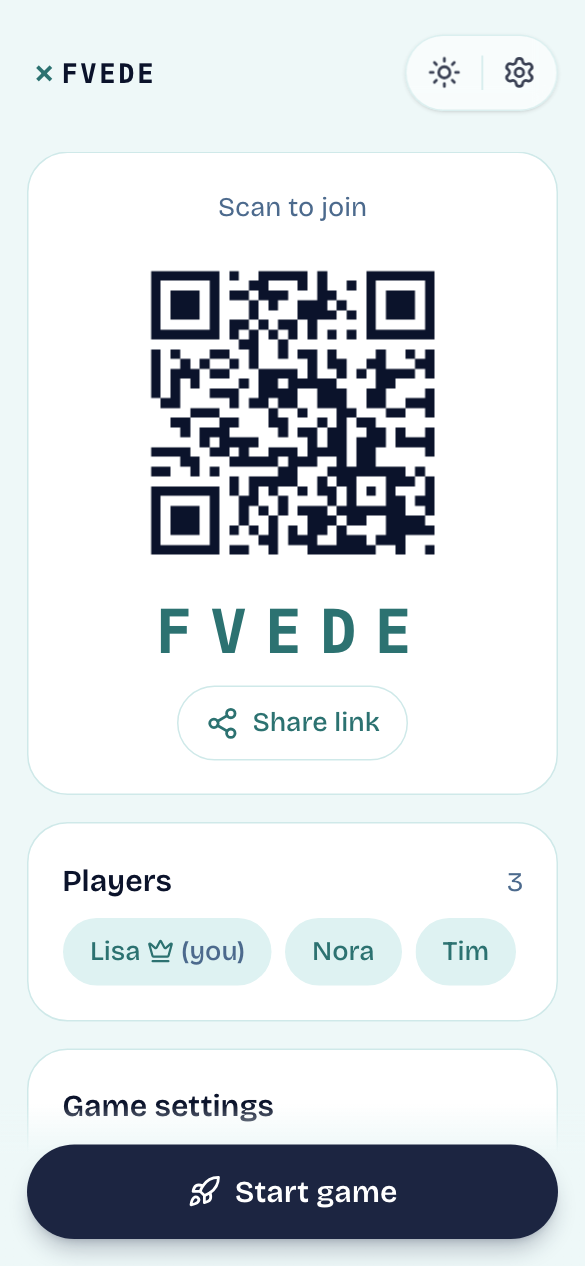
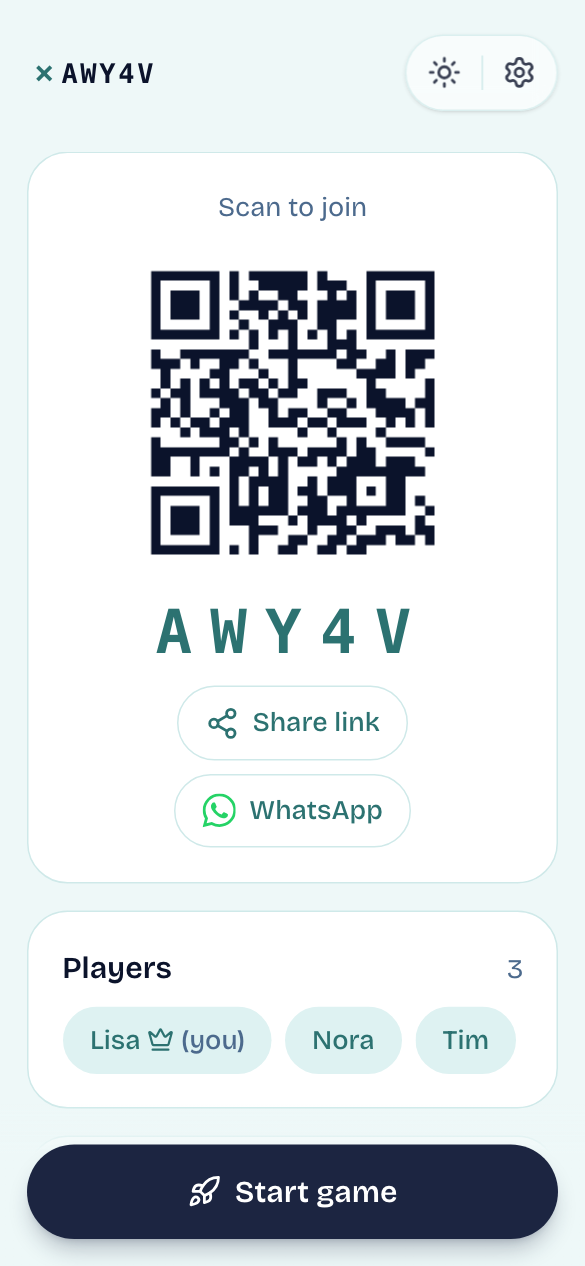
feat: WhatsApp invite; no AI at all for signed-out players
- Lobby: WhatsApp button opens a chat with "Join my Imposter game! Room XXXXX" + link (EN/FR/DE)
- Signed out: own words are checked on the phone (exact duplicates), no AI request and no spinner;
  rooms created signed out have no AI
- e2e: WhatsApp link content; signed-out own words never call the AI endpoints

diff --git a/src/app/r/[code]/page.tsx b/src/app/r/[code]/page.tsx
@@ -292,9 +292,20 @@ export default function Room() {
               <img src={qr} alt={`QR ${code}`} width={220} height={220} className="pop rounded-2xl bg-white p-2" />
             )}
             <p className="font-mono text-4xl font-bold tracking-code text-primary-ink">{code}</p>
-            <button onClick={share} className={`${ghost} border border-line`}>
-              <span className="flex items-center gap-2">{copied ? <Check className="size-5 shrink-0" aria-hidden /> : <Share2 className="size-5 shrink-0" aria-hidden />}{t(copied ? "copied" : "share")}</span>
-            </button>
+            <div className="flex flex-wrap justify-center gap-2">
+              <button onClick={share} className={`${ghost} border border-line`}>
+                <span className="flex items-center gap-2">{copied ? <Check className="size-5 shrink-0" aria-hidden /> : <Share2 className="size-5 shrink-0" aria-hidden />}{t(copied ? "copied" : "share")}</span>
+              </button>
+              {/* straight into a WhatsApp chat with a ready-made invite (wa.me works on phones and desktop) */}
+              <a
+                href={`https://wa.me/?text=${encodeURIComponent(`${f("invite", code)} ${url}`)}`}
+                target="_blank"
+                rel="noopener noreferrer"
+                className={`${ghost} flex items-center gap-2 border border-line`}
+              >
+                <WhatsAppIcon /> {t("whatsapp")}
+              </a>
+            </div>
           </section>
           <section className={card}>
             <div className="mb-2 flex items-baseline justify-between">
@@ -524,5 +535,14 @@ export default function Room() {
 
       {!v && !errMsg && waiting("…")}
     </main>
+  );
+}
+
+// WhatsApp glyph (Simple Icons, CC0); lucide has no brand icons
+function WhatsAppIcon() {
+  return (
+    <svg viewBox="0 0 24 24" className="size-5 shrink-0 fill-whatsapp" aria-hidden>
+      <path d="M17.472 14.382c-.297-.149-1.758-.867-2.03-.967-.273-.099-.471-.148-.67.15-.197.297-.767.966-.94 1.164-.173.199-.347.223-.644.075-.297-.15-1.255-.463-2.39-1.475-.883-.788-1.48-1.761-1.653-2.059-.173-.297-.018-.458.13-.606.134-.133.298-.347.446-.52.149-.174.198-.298.298-.497.099-.198.05-.371-.025-.52-.075-.149-.669-1.612-.916-2.207-.242-.579-.487-.5-.669-.51-.173-.008-.371-.01-.57-.01-.198 0-.52.074-.792.372-.272.297-1.04 1.016-1.04 2.479 0 1.462 1.065 2.875 1.213 3.074.149.198 2.096 3.2 5.077 4.487.709.306 1.262.489 1.694.625.712.227 1.36.195 1.871.118.571-.085 1.758-.719 2.006-1.413.248-.694.248-1.289.173-1.413-.074-.124-.272-.198-.57-.347m-5.421 7.403h-.004a9.87 9.87 0 0 1-5.031-1.378l-.361-.214-3.741.982.998-3.648-.235-.374a9.86 9.86 0 0 1-1.51-5.26c.001-5.45 4.436-9.884 9.888-9.884 2.64 0 5.122 1.03 6.988 2.898a9.825 9.825 0 0 1 2.893 6.994c-.003 5.45-4.437 9.884-9.885 9.884m8.413-18.297A11.815 11.815 0 0 0 12.05 0C5.495 0 .16 5.335.157 11.892c0 2.096.547 4.142 1.588 5.945L.057 24l6.305-1.654a11.882 11.882 0 0 0 5.683 1.448h.005c6.554 0 11.89-5.335 11.893-11.893a11.821 11.821 0 0 0-3.48-8.413Z" />
+    </svg>
   );
 }

diff --git a/src/app/page.tsx b/src/app/page.tsx
@@ -14,6 +14,7 @@ import { TurnGuide } from "@/components/TurnGuide";
 import { GuessForm } from "@/components/GuessForm";
 import { Verdict, type Guess } from "@/components/Verdict";
 import { ExplainWord } from "@/components/ExplainWord";
+import { useMe } from "@/lib/authClient";
 import { JokerHint } from "@/components/Joker";
 import { tally } from "@/lib/vote";
 import { type RoundLog, winners } from "@/lib/stats";
@@ -85,7 +86,8 @@ export default function Home() {
   const [notes, setNotes] = useState<(Note | null)[]>([]);
   const [checking, setChecking] = useState(false);
   const [confirmable, setConfirmable] = useState(""); // corrected draft shown to the player; sending it unchanged = accepted
-  const ai = useAi();
+  const me = useMe();
+  const ai = useAi() && !!me?.user; // AI only for signed-in players (and only when their switch is on)
   const [myName, setMyName] = useState(saved.myName ?? "");
   const [code, setCode] = useState("");
   const [online, setOnline] = useState<"create" | "join">("create");
@@ -195,10 +197,11 @@ export default function Home() {
 
   // words stay in `writing` until everyone is done, so quitting halfway never leaves a partial pool
   const submitWords = async () => {
-    setChecking(true);
     const taken = writing.map((s) => s.word as string);
-    const reviews: Review[] =
-      (await fetch("/api/words/check", {
+    setChecking(ai); // signed out: exact checks right here, no round trip and no spinner
+    const reviews: Review[] = !ai
+      ? exactReview(draft, taken)
+      : (await fetch("/api/words/check", {
         method: "POST",
         body: JSON.stringify({ words: draft, taken, lang: W, ai: ai && JSON.stringify(draft) !== confirmable }),
       })

diff --git a/e2e/auth.spec.ts b/e2e/auth.spec.ts
@@ -67,6 +67,24 @@ test.describe("signed out", () => {
     expect((await page.request.post("/api/words/explain", { data: { word: "Pizza", lang: "en" } })).status()).toBe(401);
   });
 
+  test("own words: checked on the phone, never sent to the AI; duplicates still caught", async ({ page }) => {
+    const aiCalls: string[] = [];
+    page.on("request", (r) => r.url().includes("/api/words/") && aiCalls.push(r.url()));
+    await page.goto("/");
+    await page.getByRole("button", { name: "Remove" }).last().click(); // Lisa, Nora, Tim
+    await page.getByRole("button", { name: "Our own words" }).click();
+    await page.getByRole("button", { name: "−" }).last().click(); // 1 word each
+    await page.getByRole("button", { name: "Start game" }).click();
+    for (const w of ["Bananna", "bananna"]) {
+      await page.getByRole("button", { name: "Tap to write" }).click();
+      await page.getByPlaceholder(/^Word/).fill(w);
+      await page.getByRole("button", { name: "Done" }).click();
+    }
+    // Lisa's "Bananna" was never autocorrected, so Nora's "bananna" is an exact clash: both cancelled
+    await expect(page.getByRole("status").filter({ hasText: "Someone already wrote this" })).toBeVisible();
+    expect(aiCalls).toEqual([]);
+  });
+
   test("every configured provider starts a real OAuth redirect", async ({ page, request, baseURL }) => {
     const { providers } = (await (await request.get("/api/me")).json()) as { providers: Provider[] };
     test.skip(!providers.length, "no OAuth provider configured in .env.local (just auth-setup)");

diff --git a/e2e/rooms.spec.ts b/e2e/rooms.spec.ts
@@ -30,6 +30,10 @@ test("every phone: create, join by link, private cards, vote, result on all phon
   await host.waitForURL(/\/r\/[A-Z0-9]{5}$/);
   const code = host.url().split("/").pop()!;
   await expect(host.getByAltText(`QR ${code}`)).toBeVisible();
+  // WhatsApp: opens a chat with the invite text and this room's link
+  const wa = new URL((await host.getByRole("link", { name: "WhatsApp" }).getAttribute("href"))!);
+  expect(wa.host).toBe("wa.me");
+  expect(wa.searchParams.get("text")).toMatch(new RegExp(`^Join my Imposter game! Room ${code} https?://.+/r/${code}$`));
   await expect(host.getByRole("button", { name: /at least 3 players/ })).toBeDisabled();
 
   const nora = await phone(browser);

diff --git a/src/lib/i18n.ts b/src/lib/i18n.ts
@@ -70,6 +70,8 @@ export const UI = {
   joinTitle: { en: "Join the game", fr: "Rejoindre la partie", de: "Dem Spiel beitreten" },
   scanToJoin: { en: "Scan to join", fr: "Scanne pour rejoindre", de: "Scannen zum Beitreten" },
   share: { en: "Share link", fr: "Partager le lien", de: "Link teilen" },
+  whatsapp: { en: "WhatsApp", fr: "WhatsApp", de: "WhatsApp" },
+  invite: { en: "Join my Imposter game! Room {name}", fr: "Rejoins ma partie d'Imposter ! Salle {name}", de: "Spiel mit bei Imposter! Raum {name}" },
   copied: { en: "Link copied", fr: "Lien copié", de: "Link kopiert" },
   host: { en: "Host", fr: "Hôte", de: "Gastgeber" },
   you: { en: "you", fr: "toi", de: "du" },

diff --git a/src/app/globals.css b/src/app/globals.css
@@ -208,6 +208,7 @@
 @theme inline {
   --ease-spring: cubic-bezier(0.2, 0.9, 0.3, 1.2);
   /* leaderboard medals: same in light and dark */
+  --color-whatsapp: #25d366; /* brand green, share button icon */
   --color-gold: #d4a017;
   --color-silver: #9aa4b2;
   --color-bronze: #b87333;

diff --git a/docs/MANUAL.md b/docs/MANUAL.md
@@ -200,7 +200,7 @@ Turn off **Imposter gets a clue**, then turn on **Joker mode**.
 The lobby shows a **5-character code** and a **QR code**. Friends can:
 
 - scan the QR code with their phone camera, or
-- tap **Share link** and send it, or
+- tap **WhatsApp** to send the invite straight into a chat, or **Share link** for any other app, or
 - open the app, choose **Join a room**, and type the code or tap the **scan** button next to it.
 
 Players appear in the lobby as they join. Once there are 3 or more, the host taps **Start game**.
